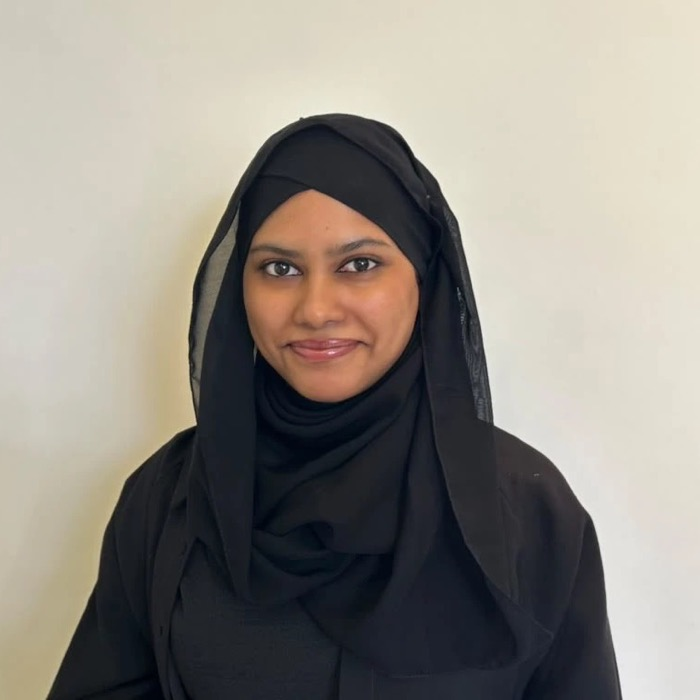
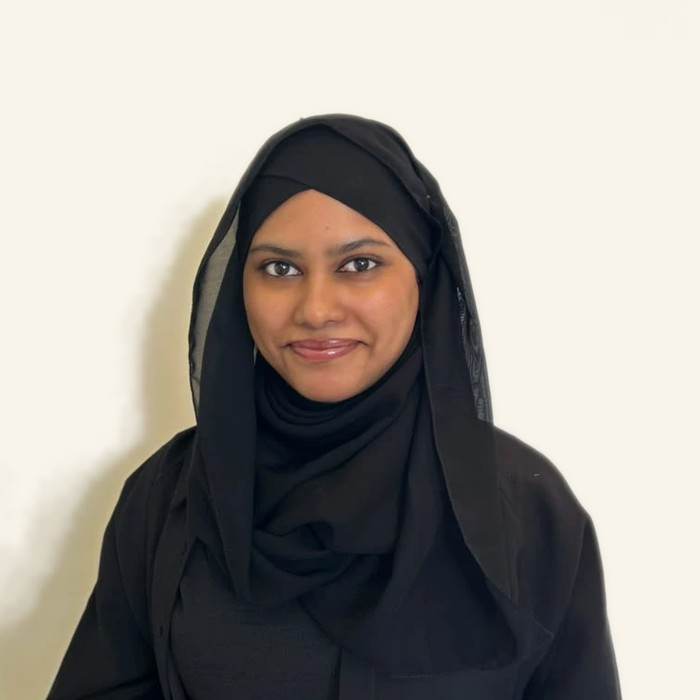
Timeline page with modules, marks and achievements; cream photo background; remove two gallery photos

diff --git a/theme.scss b/theme.scss
@@ -252,3 +252,16 @@ figcaption { color: $muted; text-align: center; font-size: .92rem; }
 .story .quarto-figure, .story figure { margin: 0; }
 .story img { width: 100%; aspect-ratio: 3 / 4; object-fit: cover; border-radius: 8px; border: 1px solid $line; }
 .story figcaption { text-align: left; font-size: .86rem; margin-top: .4rem; }
+
+/* ---------- Timeline page tags ---------- */
+.legend { display: flex; flex-wrap: wrap; gap: .4rem; margin: .5rem 0 1rem; }
+.kind { display: inline-block; font-size: .72rem; font-weight: 600; letter-spacing: .04em; padding: .1rem .5rem; border-radius: 3px; margin-left: .35rem; vertical-align: middle; }
+.legend .kind { margin-left: 0; }
+.k-edu { background: #E4EAF3; color: #1F3A5F; }
+.k-res { background: #E3EFE8; color: #1F5C46; }
+.k-work { background: #F1E9DD; color: #7A5521; }
+.k-course { background: #ECE6F3; color: #4F3A78; }
+.k-conf { background: #E2EEF2; color: #1E5A6B; }
+.k-award { background: #F7E7D8; color: #9A4A12; }
+.tl-item table { font-size: .9rem; margin: .6rem 0 .2rem; max-width: 520px; }
+.tl-item table td:last-child, .tl-item table th:last-child { text-align: right; }
